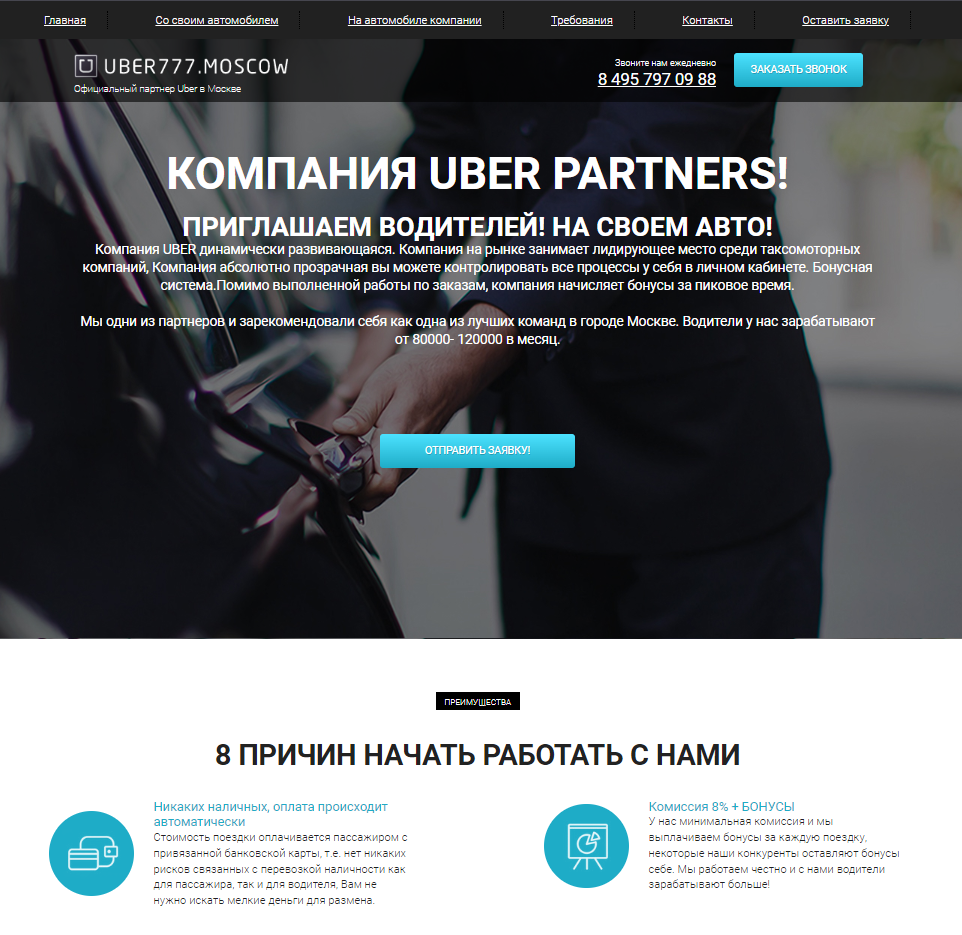
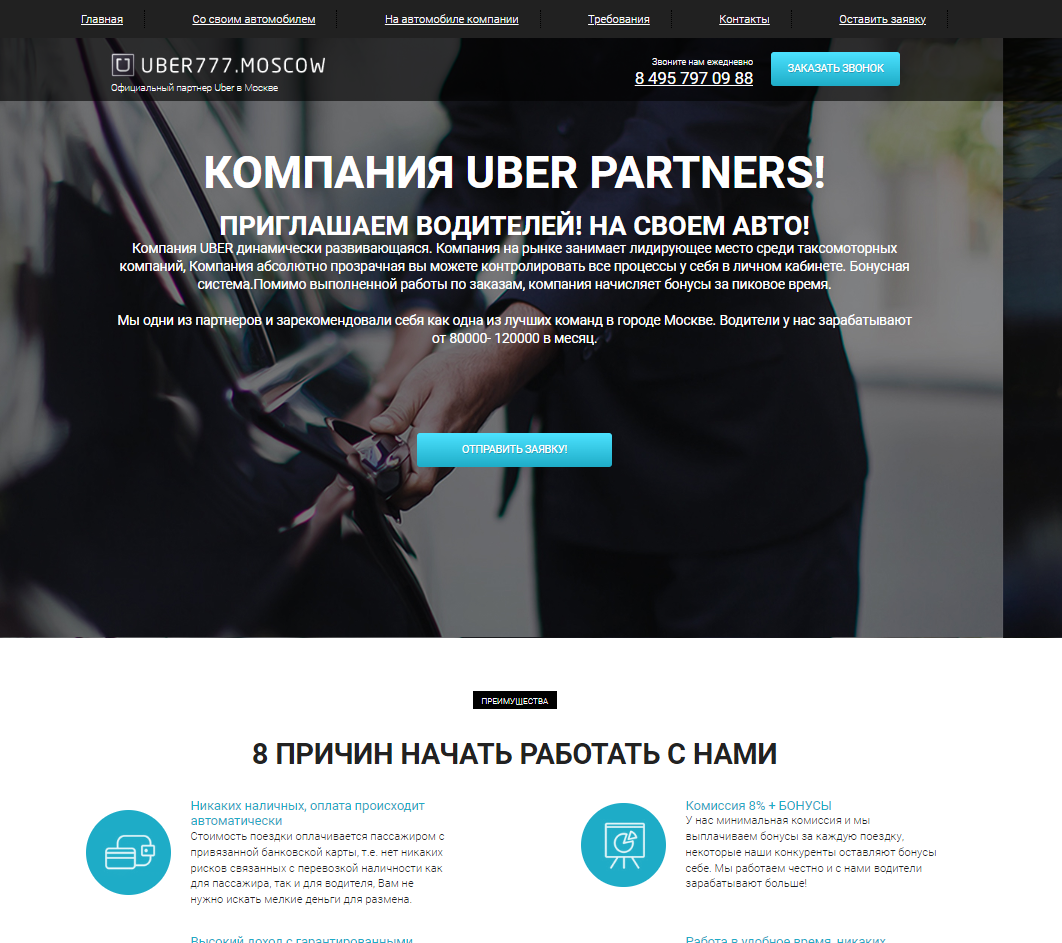
upp

diff --git a/index.html b/index.html
@@ -24,7 +24,7 @@
 <body>
     <header class="nav">
         <nav class="nav__list">
-            <img src="src/icon/logo1.svg" alt="logo1" class="nav__logo">
+            <!--<img src="src/icon/logo1.svg" alt="logo1" class="nav__logo">-->
             <section class="header__menu">
                 <button id="sweeties" class="menu">
                     <span class="title"></span>
@@ -65,7 +65,7 @@
             </div>
             <div class="section__content">
                 <div>
-                    <img src="src/img/IMG_5126.jpg" alt="me_foto" class="section__img">
+                    <img src="src/img/my.jpg" alt="me_foto" class="section__img">
                 </div>
             </div>
         </div>
@@ -111,12 +111,9 @@
         <div class="container__list">
             <div class="container__item">
                 <img src="src/img/projects/radio.PNG" alt="radio" class="container__item__img">
-                <div class="container__item__title">Project Tile goes here</div>
-                <div class="container__item__text">This is sample project description random things are here in
-                    description This is
-                    sample project lorem ipsum generator
-                    for dummy content</div>
-                <div class="container__item__subtitle"><b>Tech stack :</b>HTML , JavaScript, SASS, React</div>
+                <div class="container__item__title"></div>
+                <div class="container__item__text"></div>
+                <div class="container__item__subtitle"><b>Tech stack :</b>HTML , JavaScript, SASS</div>
                 <a class="item_grope" href="https://creatyouradio.netlify.app"><img src="src/img/projects/Group.svg"
                         alt="grope">Live Preview</a>
                 <a class="item_git" href="https://github.com/Lex1421231/Radio"><img src="src/img/projects/Vector10.svg"
@@ -124,25 +121,17 @@
             </div>
             <div class="container__item">
                 <img src="src/img/projects/uber.PNG" alt="uber" class="container__item__img">
-                <div class="container__item__title">Project Tile goes here</div>
-                <div class="container__item__text">This is sample project description random things are here in
-                    description This is
-                    sample project
-                    lorem ipsum generator
-                    for dummy content</div>
-                <div class="container__item__subtitle"><b>Tech stack :</b>HTML , JavaScript, SASS, React</div>
+                <div class="container__item__title"></div>
+                <div class="container__item__text"></div>
+                <div class="container__item__subtitle"><b>Tech stack :</b>HTML , JavaScript, SASS</div>
                 <a class="item_grope" href="https://uber777moskow.netlify.app"><img src="src/img/projects/Group.svg" alt="grope">Live Preview</a>
                 <a class="item_git" href="https://github.com/Lex1421231/uber777moskow"><img src="src/img/projects/Vector10.svg" alt="git">View Code</a>
             </div>
             <div class="container__item">
                 <img src="src/img/projects/worldpress.PNG" alt="worldpress" class="container__item__img">
-                <div class="container__item__title">Project Tile goes here</div>
-                <div class="container__item__text">This is sample project description random things are here in
-                    description This is
-                    sample project
-                    lorem ipsum generator
-                    for dummy content</div>
-                <div class="container__item__subtitle"><b>Tech stack :</b>HTML , JavaScript, SASS, React</div>
+                <div class="container__item__title"></div>
+                <div class="container__item__text"></div>
+                <div class="container__item__subtitle"><b>Tech stack :</b>HTML , JavaScript, SASS</div>
                 <a class="item_grope" href="https://wordpress234.netlify.app"><img src="src/img/projects/Group.svg" alt="grope">Live Preview</a>
                 <a class="item_git" href="https://github.com/Lex1421231/WordPress"><img src="src/img/projects/Vector10.svg" alt="git">View Code</a>
             </div>
@@ -150,7 +139,7 @@
     </section>
     <section class="container">
         <nav class="container__contacts">
-            <img src="src/icon/logo1.svg" alt="logo1" class="container__logo">
+            <!--<img src="src/icon/logo1.svg" alt="logo1" class="container__logo">-->
             <div class="container__contacts__list">
                 <div class="container__contacts__img">
                     <a href="https://github.com/Lex1421231"><img src="src/icon/Vector6.svg" alt="vector6"></a>

diff --git a/projects.html b/projects.html
@@ -24,7 +24,7 @@
 <body>
     <header class="nav">
         <nav class="nav__list">
-            <img src="src/icon/logo1.svg" alt="logo1" class="nav__logo">
+            <!--<img src="src/icon/logo1.svg" alt="logo1" class="nav__logo">-->
             <section class="header__menu">
                 <button id="sweeties" class="menu">
                     <span class="title"></span>
@@ -65,12 +65,9 @@
         <div class="container__list">
             <div class="container__item">
                 <img src="src/img/projects/radio.PNG" alt="radio" class="container__item__img">
-                <div class="container__item__title">Project Tile goes here</div>
-                <div class="container__item__text">This is sample project description random things are here in
-                    description This is
-                    sample project lorem ipsum generator
-                    for dummy content</div>
-                <div class="container__item__subtitle"><b>Tech stack :</b>HTML , JavaScript, SASS, React</div>
+                <div class="container__item__title"></div>
+                <div class="container__item__text"></div>
+                <div class="container__item__subtitle"><b>Tech stack :</b>HTML , JavaScript, SASS</div>
                 <a class="item_grope" href="https://creatyouradio.netlify.app"><img src="src/img/projects/Group.svg"
                         alt="grope">Live Preview</a>
                 <a class="item_git" href="https://github.com/Lex1421231/Radio"><img src="src/img/projects/Vector10.svg"
@@ -78,13 +75,9 @@
             </div>
             <div class="container__item">
                 <img src="src/img/projects/uber.PNG" alt="uber" class="container__item__img">
-                <div class="container__item__title">Project Tile goes here</div>
-                <div class="container__item__text">This is sample project description random things are here in
-                    description This is
-                    sample project
-                    lorem ipsum generator
-                    for dummy content</div>
-                <div class="container__item__subtitle"><b>Tech stack :</b>HTML , JavaScript, SASS, React</div>
+                <div class="container__item__title"></div>
+                <div class="container__item__text"></div>
+                <div class="container__item__subtitle"><b>Tech stack :</b>HTML , JavaScript, SASS</div>
                 <a class="item_grope" href="https://uber777moskow.netlify.app"><img src="src/img/projects/Group.svg"
                         alt="grope">Live Preview</a>
                 <a class="item_git" href="https://github.com/Lex1421231/uber777moskow"><img
@@ -92,13 +85,9 @@
             </div>
             <div class="container__item">
                 <img src="src/img/projects/worldpress.PNG" alt="worldpress" class="container__item__img">
-                <div class="container__item__title">Project Tile goes here</div>
-                <div class="container__item__text">This is sample project description random things are here in
-                    description This is
-                    sample project
-                    lorem ipsum generator
-                    for dummy content</div>
-                <div class="container__item__subtitle"><b>Tech stack :</b>HTML , JavaScript, SASS, React</div>
+                <div class="container__item__title"></div>
+                <div class="container__item__text"></div>
+                <div class="container__item__subtitle"><b>Tech stack :</b>HTML , JavaScript, SASS</div>
                 <a class="item_grope" href="https://wordpress234.netlify.app"><img src="src/img/projects/Group.svg"
                         alt="grope">Live Preview</a>
                 <a class="item_git" href="https://github.com/Lex1421231/WordPress"><img
@@ -108,7 +97,7 @@
     </section>
     <section class="container">
         <nav class="container__contacts">
-            <img src="src/icon/logo1.svg" alt="logo1" class="container__logo">
+            <!--<img src="src/icon/logo1.svg" alt="logo1" class="container__logo">-->
             <div class="container__contacts__list">
                 <div class="container__contacts__img">
                     <a href="https://github.com/Lex1421231"><img src="src/icon/Vector6.svg" alt="vector6"></a>

diff --git a/src/css/style.css b/src/css/style.css
@@ -242,7 +242,7 @@ body.dark-theme {
 
 .container__item__img {
   width: 373px;
-  height: 260px;
+  height: 400px;
   border-radius: 20px 20px 0 0; }
 
 .container__item__title {
@@ -476,7 +476,7 @@ body.dark-theme {
 
   .container__item__img {
     width: 373px;
-    height: 260px; }
+    height: 400px; }
 
   .skills__title {
     margin-top: 130px; }
@@ -547,7 +547,7 @@ body.dark-theme {
 
   .container__item__img {
     width: 373px;
-    height: 260px; }
+    height: 400px; }
 
   .skills__title {
     margin-top: 130px; }
@@ -644,7 +644,7 @@ body.dark-theme {
 
   .container__item__img {
     width: 373px;
-    height: 260px; }
+    height: 400px; }
 
   .create__line {
     width: 800px; } }
@@ -849,7 +849,7 @@ body.dark-theme {
 
   .container__item__img {
     width: 373px;
-    height: 260px; }
+    height: 400px; }
 
   .menu {
     display: inline-block; } }
@@ -1027,7 +1027,7 @@ body.dark-theme {
 
   .container__item__img {
     width: 173px;
-    height: 160px; }
+    height: 300px; }
 
   .container__list {
     grid-template-columns: repeat(1, 567px);
@@ -1048,7 +1048,7 @@ body.dark-theme {
 
   .container__item__img {
     width: 373px;
-    height: 260px; }
+    height: 400px; }
 
   .menu {
     display: inline-block; } }
@@ -1062,7 +1062,7 @@ body.dark-theme {
 
   .container__item__img {
     width: 173px;
-    height: 160px; }
+    height: 300px; }
 
   .container__list {
     grid-template-columns: repeat(1, 567px);
@@ -1084,7 +1084,7 @@ body.dark-theme {
 
   .container__item__img {
     width: 273px;
-    height: 160px; }
+    height: 400px; }
 
   .menu {
     display: inline-block; }

diff --git a/src/sass/style.scss b/src/sass/style.scss
@@ -196,7 +196,7 @@ body.dark-theme {
 
 .container__item__img {
     width: 373px;
-    height: 260px;
+    height: 400px;
     border-radius: 20px 20px 0 0;
 }
 
@@ -408,7 +408,7 @@ body.dark-theme {
 
     .container__item__img {
         width: 373px;
-        height: 260px
+        height: 400px
     }
 
     .skills__title {
@@ -478,7 +478,7 @@ body.dark-theme {
 
     .container__item__img {
         width: 373px;
-        height: 260px
+        height: 400px
     }
 
     .skills__title {
@@ -580,7 +580,7 @@ body.dark-theme {
 
     .container__item__img {
         width: 373px;
-        height: 260px
+        height: 400px
     }
 
     .create__line {
@@ -761,7 +761,7 @@ body.dark-theme {
 
     .container__item__img {
         width: 373px;
-        height: 260px
+        height: 400px
     }
 
     .menu {
@@ -920,7 +920,7 @@ body.dark-theme {
 
     .container__item__img {
         width: 173px;
-        height: 160px
+        height: 300px;
     }
 
     .container__list {
@@ -941,7 +941,7 @@ body.dark-theme {
 
     .container__item__img {
         width: 373px;
-        height: 260px
+        height: 400px
     }
 
     .menu {
@@ -958,7 +958,7 @@ body.dark-theme {
 
     .container__item__img {
         width: 173px;
-        height: 160px
+        height: 300px
     }
 
     .container__list {
@@ -980,7 +980,7 @@ body.dark-theme {
 
     .container__item__img {
         width: 273px;
-        height: 160px
+        height: 400px
     }
 
     .menu {
